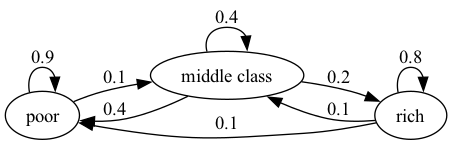
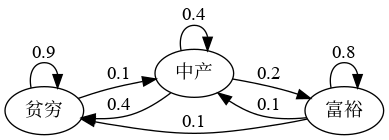
minor updates

Changed region(s): [[0.0, 0.0571, 1.0, 0.9714], [0.617, 0.4, 0.6478, 0.4286]]

diff --git a/lectures/long_run_growth.md b/lectures/long_run_growth.md
@@ -19,9 +19,9 @@ kernelspec:
 
 除了学习如何运用这些工具之外，我们还将使用它们来描述跨越多个世纪的多个国家的经济增长经历。
 
-这些 “增长事实 ”之所以有趣，原因有很多。 
+这些 “增长事实"之所以有趣，原因有很多。 
 
-解释增长事实是 “发展经济学 ”和 “经济史”的主要目的。
+解释增长事实是 “发展经济学"和 “经济史”的主要目的。
 
 并且增长事实也是历史学家研究地缘政治力量和动态的重要依据。
 
@@ -40,11 +40,11 @@ kernelspec:
 到 19 世纪末，美国的 GDP 已赶上大英帝国的 GDP，而在 20 世纪上半叶，
 美国的GDP超过了大英帝国。
 
-在亚当·图泽看来，这一事实是 “美国世纪 ”的关键地缘政治基础。
+在亚当·图泽看来，这一事实是 “美国世纪"的关键地缘政治基础。
 
 看了这张图，以及它是如何为 “美国的20世纪” 搭建地缘政治舞台的，自然会让人想为2014年或之后的时期制作一张类似的图表。
 
-(如果心急的读者想提前了解答案，现在可以跳到后面看看图{numref}`gdp2`）。
+（如果读者们想提前了解答案，现在可以跳到后面看看图{numref}`gdp2`）。
 
 正如我们将看到的，通过类比推理，这张2014年或之后的图表或许为解释“某某国家的（21世纪）世纪”奠定了基础，而你可以自由填入你对某某国家的猜测。
 
@@ -84,7 +84,7 @@ plt.rcParams['font.family'] = ['Source Han Serif SC']
 
 我们将从 QuantEcon GitHub 的库中读取数据。
 
-本节的目的是生成一个方便使用的包含不同国家的人均 GDP 的 `DataFrame` 实例。
+本节的目的是生成一个方便使用的包含不同经济体的人均 GDP 的 `DataFrame` 实例。
 
 在这里，我们将 Maddison 的数据读入一个 pandas `DataFrame`：
 
@@ -95,24 +95,24 @@ data = pd.read_excel(data_url,
 data.head()
 ```
 
-我们可以看到，该数据集包含许多国家和年份的人均国内生产总值（`gdppc`）和人口（`pop`）。
+我们可以看到，该数据集包含许多经济体和年份的人均国内生产总值（`gdppc`）和人口（`pop`）。
 
-让我们看看这个数据集中有多少国家/地区。
+让我们看看这个数据集中有多少经济体。
 
 ```{code-cell} ipython3
 regions = data.country.unique()
 len(regions)
 ```
 
-通过运行上面的代码，我们可以列出这个数据集有多少个国家/地区。
+通过运行上面的代码，我们可以列出这个数据集有多少个经济体。
 
-下面，我们将列出这些国家。
+下面，我们将列出这些经济体。
 
 ```{code-cell} ipython3
 regions
 ```
 
-我们现在可以继续探索数据集里的169个国家/地区。
+我们现在可以继续探索数据集里的169个经济体。
 
 我们可以遍历每个样本来了解每个样本可用的年份都有哪些。
 
@@ -129,7 +129,7 @@ country_years.head()
 
 现在，让我们将原始数据重新整理成一些方便的变量，以便更快地访问各国的时间序列数据。
 
-我们可以在该数据集中的国家代码（`countrycode`）和国家名称（`country`）之间建立一个有用的映射关系。
+我们可以在该数据集中的经济体代码（`countrycode`）和经济体名称（`country`）之间建立一个有用的映射关系。
 
 为了方便使用中文标签，我们导入地区代码与中文名对应的数据集
 
@@ -148,17 +148,17 @@ gdp_pc = gdp_pc.unstack('countrycode')
 gdp_pc.tail()
 ```
 
-我们创建了一个变量 `color_mapping` 来存储国家代码和颜色之间的映射，以保证接下来线条的颜色一致
+我们创建了一个变量 `color_mapping` 来存储经济体代码和颜色之间的映射，以保证接下来线条的颜色一致
 
 ```{code-cell} ipython3
 :tags: [hide-input]
 
 country_names = data['countrycode']
 
-# 生成一个颜色图，颜色数量与国家数量相匹配
+# 生成一个颜色图，颜色数量与经济体数量相匹配
 colors = cm.tab20(np.linspace(0, 0.95, len(country_names)))
 
-# 创建一个字典，将每个国家映射成相应的颜色
+# 创建一个字典，将每个经济体映射成相应的颜色
 color_mapping = {country: color for 
                  country, color in zip(country_names, colors)}
 ```

diff --git a/lectures/about.md b/lectures/about.md
@@ -2,39 +2,37 @@
 
 ## 简介
 
-这个讲座系列使用基础数学、统计学及[Python](https://www.python.org/)来介绍数量经济学。
+这个讲座系列通过基础数学、统计学和[Python](https://www.python.org/)编程来介绍量化经济学的核心概念。
 
-讲座强调通过代码进行模拟和图表来传达思想，而不是侧重于数学细节。
+我们注重通过代码模拟和可视化图表来传达经济学思想，而非过度强调复杂的数学推导。
 
-虽然这种呈现方式相当新颖，但讨论的观点却是基础性的。
+虽然这种教学方法相对创新，但我们探讨的经济学概念都是经典且基础的。
 
-我们强调经济理论深刻和根本的重要性，同时也重视分析数据和理解典型事实的价值。
+在这些讲座中，我们既重视经济理论的深刻意义，也强调数据分析和理解现实经济现象的重要性。
 
-这些讲座可以用于大学课程、自学、读书小组或研讨会。
+这些材料适用于多种场景：大学课程、自学、读书小组或专业研讨会。
 
-研究人员和政策专业人士也可能会发现系列中的某些部分对他们的工作有价值。
+从事研究工作的学者和政策制定者也可能在系列中找到对其工作有价值的内容。
 
-我们希望这些讲座对那些既想学习经济学又想学习编程的经济学学生感兴趣，以及对经济学感兴趣的计算机科学和工程领域的学生。
+我们希望这些讲座能吸引两类学生：既想学习经济学又想提升编程能力的经济学专业学生，以及来自计算机科学和工程领域但对经济学感兴趣的学生。
 
-## 层级
+## 难度层级
 
-这个讲座系列面向本科学生。
+这个讲座系列主要面向本科生，难度从入门到中级不等。
 
-讲座的难度从入门级（适合一年级本科生甚至高中生）到中级的内容。
+入门级内容适合大一学生甚至高中生，而中级内容则需要一定的线性代数基础和数学思维能力（例如能够理解定理及其含义）。
 
-中级的讲座需要对线性代数有一定的了解，并且具有一些数学成熟度（比如可以平静地阅读定理并尝试理解它们的含义）。
+总体而言，讲座的安排遵循由易到难的原则，前面的内容相对简单，后面的内容逐渐深入。
 
-总的来说，较容易的讲座出现在讲座系列的前面，较难的讲座出现在后面。
+我们假设读者已经学习过QuantEcon的[Python编程基础](https://python-programming.quantecon.org/intro.html)。
 
-我们假设读者已经学习了QuantEcon关于Python编程的基础部分[Python编程](https://python-programming.quantecon.org/intro.html)。
-
-特别是，读者应该熟悉基本的Python语法，包括Python函数。了解类和Matplotlib会有帮助，但不是必须的。
+具体来说，你应该熟悉基本的Python语法和函数编写。了解类和Matplotlib绘图库会有所帮助，但不是必需的。
 
 ## 致谢
 
-在构建这个讲座系列时，我们得到了QuantEcon的研究助理以及我们QuantEcon同事的宝贵帮助。没有他们的帮助，这个系列是无法完成的。
+这个讲座系列的完成离不开QuantEcon研究助理团队和众多同事的宝贵帮助。
 
-特别感谢并致谢
+特别感谢以下人员的贡献：
 
 - [Aakash Gupta](https://github.com/AakashGfude)
 - [Shu Hu](https://github.com/shlff)
@@ -46,4 +44,4 @@
 - [Humphrey Yang](https://github.com/HumphreyYang)
 - [Sylvia Zhao](https://github.com/SylviaZhaooo)
 
-我们还感谢Noritaka Kudoh鼓励我们开始这个项目并提供了宝贵的建议。
+我们还要特别感谢Noritaka Kudoh教授，是他鼓励我们启动这个项目并提供了宝贵的建议。

diff --git a/lectures/money_inflation_nonlinear.md b/lectures/money_inflation_nonlinear.md
@@ -165,7 +165,7 @@ print(f'两个稳态的π是: {π_l, π_u}')
 ---
 mystnb:
   figure:
-    caption: 稳态通胀的铸币税功能。虚线棕色线条代表 $\pi_l$ 和 $\pi_u$。
+    caption: 稳态通胀的铸币税功能。棕色虚线代表 $\pi_l$ 和 $\pi_u$。
     name: laffer_curve_nonlinear
     width: 500px
 ---
@@ -338,7 +338,7 @@ def draw_iterations(p0s, model, line_params, p0_bars, num_steps):
 
     fig, axes = plt.subplots(4, 1, figsize=(8, 10), sharex=True)
     
-    # 预先计算时间步
+    # 预先计算时间
     time_steps = np.arange(num_steps) 
     
     # 在对数刻度上绘制前两个y轴
@@ -366,7 +366,7 @@ def draw_iterations(p0s, model, line_params, p0_bars, num_steps):
     axes[1].set_ylabel('$p_t$')
     axes[2].set_ylabel(r'$\pi_t$')
     axes[3].set_ylabel(r'$\mu_t$')
-    axes[3].set_xlabel('时间步')
+    axes[3].set_xlabel('时间')
     
     for p_0, label in [(p0_bars[0], '$p_0=p_l$'), (p0_bars[1], '$p_0=p_u$')]:
         y = simulate_seq(p_0, model, 1)[0]

diff --git a/lectures/eigen_I.md b/lectures/eigen_I.md
@@ -517,15 +517,15 @@ def grid_composition_transform(A=np.array([[1, -1], [1, 1]]),
 
     # 绘制格点
     ax[0].scatter(xygrid[0], xygrid[1], s=36, c=colors, edgecolor="none")
-    ax[0].set_title("点 $x_1, x_2, \cdots, x_k$")
+    ax[0].set_title(r"点 $x_1, x_2, \cdots, x_k$")
 
     # 绘制中间的格点
     ax[1].scatter(uvgrid[0], uvgrid[1], s=36, c=colors, edgecolor="none")
-    ax[1].set_title("点 $Bx_1, Bx_2, \cdots, Bx_k$")
+    ax[1].set_title(r"点 $Bx_1, Bx_2, \cdots, Bx_k$")
 
     # 绘制变换后的格点
     ax[2].scatter(abgrid[0], abgrid[1], s=36, c=colors, edgecolor="none")
-    ax[2].set_title("点 $ABx_1, ABx_2, \cdots, ABx_k$")
+    ax[2].set_title(r"点 $ABx_1, ABx_2, \cdots, ABx_k$")
 
     plt.show()
 ```
@@ -1088,7 +1088,7 @@ plot_series(A, v, n)
 ---
 mystnb:
   figure:
-    caption: Convergence towards eigenvectors
+    caption: 收敛于特征向量
     name: eigen-conv
 ---
 # 创建格点

diff --git a/lectures/money_inflation.md b/lectures/money_inflation.md
@@ -525,7 +525,7 @@ def draw_paths(R0_values, model, line_params, num_steps):
     
     # 添加标签
     axes[0].set_ylabel('$R_t$')
-    axes[1].set_xlabel('时间步')
+    axes[1].set_xlabel('时间')
     axes[1].set_ylabel('$b_t$')
     axes[1].xaxis.set_major_locator(MaxNLocator(integer=True))
     
@@ -842,7 +842,7 @@ def draw_iterations(p0s, model, line_params, num_steps):
 
     fig, axes = plt.subplots(3, 1, figsize=(8, 10), sharex=True)
     
-    # 预计算时间步
+    # 预计算时间
     time_steps = np.arange(num_steps) 
     
     # 前两个y轴使用对数刻度
@@ -872,7 +872,7 @@ def draw_iterations(p0s, model, line_params, num_steps):
     axes[0].set_ylabel('$m_t$')
     axes[1].set_ylabel('$p_t$')
     axes[2].set_ylabel('$R_t$')
-    axes[2].set_xlabel('时间步')
+    axes[2].set_xlabel('时间')
     
     # 强制整数轴标签
     axes[2].xaxis.set_major_locator(MaxNLocator(integer=True))

diff --git a/lectures/simple_linear_regression.md b/lectures/simple_linear_regression.md
@@ -563,8 +563,8 @@ data['life_expectancy_hat'] = α + β * df['log_gdppc']
 data['error'] = data['life_expectancy_hat'] - data['life_expectancy']
 
 fig, ax = plt.subplots()
-data.plot(x='log_gdppc',y='life_expectancy', kind='scatter', ax=ax)
-data.plot(x='log_gdppc',y='life_expectancy_hat', kind='line', ax=ax, color='g')
+data.plot(x='log_gdppc',y='life_expectancy', kind='scatter', ax=ax, xlabel="人均GDP", ylabel="预期寿命（年）")
+data.plot(x='log_gdppc',y='life_expectancy_hat', kind='line', ax=ax, color='g', xlabel="人均GDP", label="最佳拟合线")
 plt.vlines(data['log_gdppc'], data['life_expectancy_hat'], data['life_expectancy'], color='r')
 ```
 

diff --git a/lectures/laffer_adaptive.md b/lectures/laffer_adaptive.md
@@ -208,7 +208,7 @@ print(f'两个稳态的π是: {π_l, π_u}')
 ---
 mystnb:
   figure:
-    caption: 稳态通胀下的铸币税函数。虚线棕色线条代表$\pi_l$和$\pi_u$。
+    caption: 稳态通胀下的铸币税函数。棕色虚线代表$\pi_l$和$\pi_u$。
     name: laffer_curve_adaptive
     width: 500px
 ---
@@ -265,7 +265,7 @@ def solve_p_init(model, π_star):
 
 # 计算与 π_l 和 π_u 相关联的两个初始价格水平
 p_l, p_u = map(lambda π: solve_p_init(model, π), (π_l, π_u))
-print('相关的初始 p_{-1}', f'为: {p_l, p_u}')
+print('初始 p_{-1}', f'为: {p_l, p_u}')
 ```
 
 ### 验证

diff --git a/lectures/cobweb.md b/lectures/cobweb.md
@@ -465,12 +465,12 @@ def ts_plot_supply(model, p0, ts_length=10):
             'bo-',
             alpha=0.6,
             lw=2,
-            label=r'supply')
+            label=r'供给')
 
     ax.legend(loc='best', fontsize=10)
     ax.set_xticks(np.arange(ts_length))
-    ax.set_xlabel("时间")
-    ax.set_ylabel("数量")
+    ax.set_xlabel(r"时间")
+    ax.set_ylabel(r"数量")
     plt.show()
 ```
 

diff --git a/lectures/heavy_tails.md b/lectures/heavy_tails.md
@@ -1142,7 +1142,7 @@ for (a, ax) in zip(alphas, axes):
     data = pareto.rvs(size=n, scale=1, b=a)
     ax.plot(list(range(n)), data, linestyle='', marker='o', alpha=0.5, ms=4)
     ax.vlines(list(range(n)), 0, data, lw=0.2)
-    ax.set_title(f"帕累托分布抽样 $\\alpha = {a}$", fontsize=11)
+    ax.set_title(f"帕累托分布样本 $\\alpha = {a}$", fontsize=11)
 
 plt.subplots_adjust(hspace=0.4)
 

diff --git a/lectures/eigen_II.md b/lectures/eigen_II.md
@@ -327,9 +327,9 @@ def check_convergence(M):
         # 计算A^n / r^n与佩龙投影之间的差异
         diff = np.abs(M_n - P)
 
-        # 计算差异矩阵的范数
+        # 计算矩阵差异的范数
         diff_norm = np.linalg.norm(diff, 'fro')
-        print(f"n = {n}, error = {diff_norm:.10f}")
+        print(f"n = {n}, 误差 = {diff_norm:.10f}")
 
 
 A1 = np.array([[1, 2],

diff --git a/lectures/lp_intro.md b/lectures/lp_intro.md
@@ -316,7 +316,7 @@ solver.Maximize(1.30 * 3 * x1 + 1.06 * x4 + 1.30 * x5)
 status = solver.Solve()
 
 if status == pywraplp.Solver.OPTIMAL:
-    print('Objective value =', solver.Objective().Value())
+    print(f'目标值 = {solver.Objective().Value():.3f}')
     x1_sol = round(x1.solution_value(), 3)
     x2_sol = round(x2.solution_value(), 3)
     x3_sol = round(x1.solution_value(), 3)

diff --git a/lectures/commod_price.md b/lectures/commod_price.md
@@ -70,8 +70,8 @@ s = yf.download('CT=F', '2016-1-1', '2023-4-1', auto_adjust=False)['Adj Close']
 fig, ax = plt.subplots()
 
 ax.plot(s, marker='o', alpha=0.5, ms=1)
-ax.set_ylabel('cotton price in USD', fontsize=12)
-ax.set_xlabel('date', fontsize=12)
+ax.set_ylabel(r'棉花价格（美元）', fontsize=12)
+ax.set_xlabel(r'日期', fontsize=12)
 
 plt.show()
 ```
